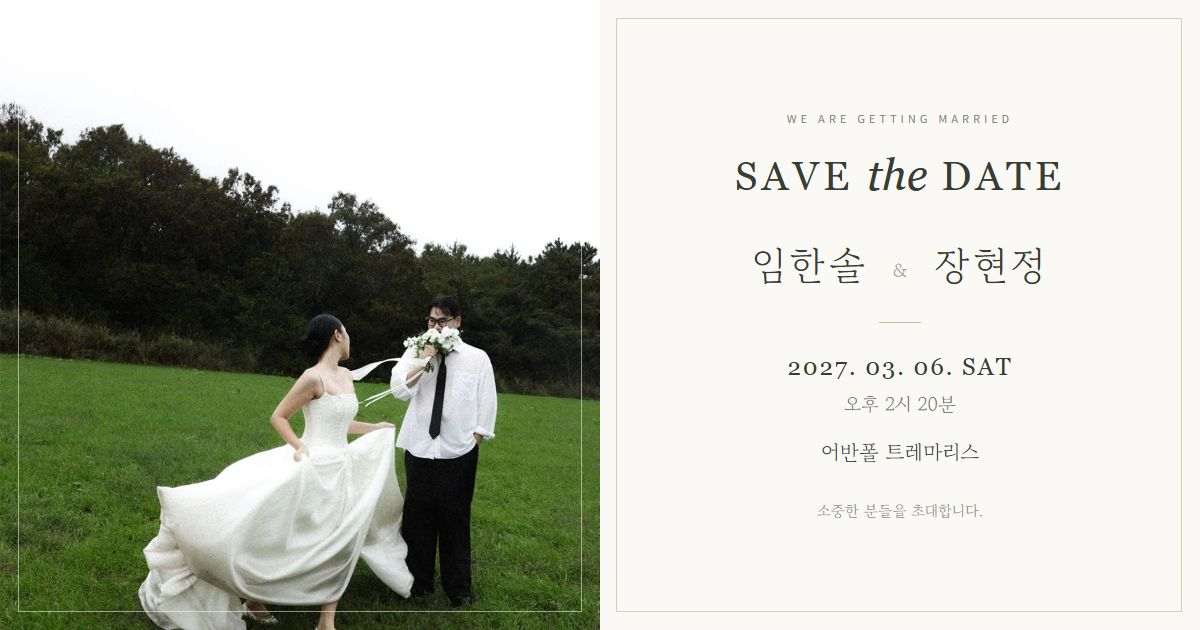
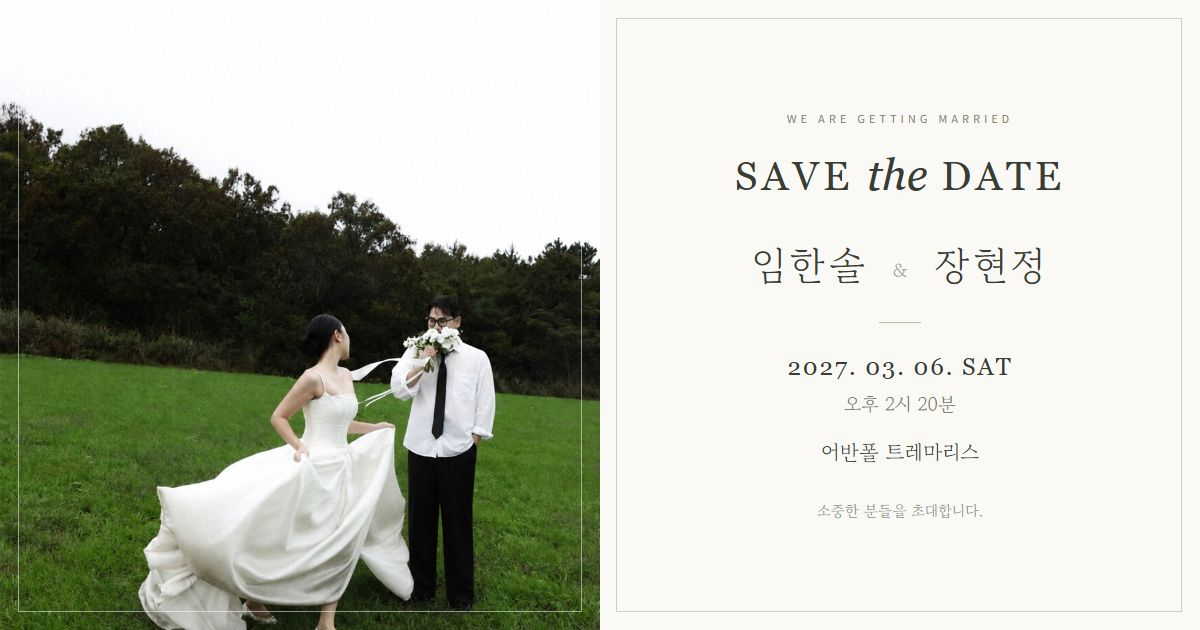
fix: 어반폴 단일 장소 지도와 최신 대표 사진 반영
- 여러 장소가 표시되던 Google 지도 검색 결과를 어반폴 단일 장소의 공식 퍼가기 지도로 교체
- 어반폴 공식 홈페이지에서 제공하는 네이버·카카오 상세 장소 링크를 지도 앱 버튼에 연결
- 지도 버튼을 다시 검색 주소로 덮어쓰던 JavaScript 제거
- 최신 images/main.jpg를 첫 화면과 갤러리 첫 사진으로 적용
- 큰 사진, 작은 미리보기, 확대 모달의 사진 순서를 동일하게 정리
- 대표 사진의 실제 크기 980×1605를 HTML에 반영
- 최신 main.jpg를 사용해 1200×630 공유 썸네일 재생성
- 대표 사진과 공유 썸네일 URL에 파일 내용 기준 버전 값을 추가해 이전 이미지 캐시 갱신
- Open Graph와 Twitter Card 썸네일 주소, 썸네일 원본 HTML, README 갱신

검증:
- 브라우저에서 지도에 어반폴 한 곳의 핀이 표시되는 것 확인
- 공식 네이버·카카오 상세 장소 링크와 어반폴 주소 일치 확인
- 첫 화면·갤러리 대표·첫 번째 미리보기·확대 모달이 최신 main.jpg를 사용하는 것 확인
- 다음 사진 이동 시 기존 두 번째 사진으로 전환되고 2/2로 표시되는 것 확인
- 재생성한 썸네일의 사진과 이름·예식 일시·장소 배치를 이미지로 확인
- JavaScript 문법 검사 및 git diff --check 통과

공개 사이트 반영에는 Push origin 필요

diff --git a/index.html b/index.html
@@ -11,8 +11,8 @@
   <meta property="og:url" content="https://ihs61855.github.io/wedding-invitation/">
   <meta property="og:locale" content="ko_KR">
   <meta property="og:site_name" content="한솔 · 현정의 결혼식">
-  <meta property="og:image" content="https://ihs61855.github.io/wedding-invitation/images/share-thumbnail.jpg">
-  <meta property="og:image:secure_url" content="https://ihs61855.github.io/wedding-invitation/images/share-thumbnail.jpg">
+  <meta property="og:image" content="https://ihs61855.github.io/wedding-invitation/images/share-thumbnail.jpg?v=2b3f9912633d">
+  <meta property="og:image:secure_url" content="https://ihs61855.github.io/wedding-invitation/images/share-thumbnail.jpg?v=2b3f9912633d">
   <meta property="og:image:type" content="image/jpeg">
   <meta property="og:image:width" content="1200">
   <meta property="og:image:height" content="630">
@@ -20,7 +20,7 @@
   <meta name="twitter:card" content="summary_large_image">
   <meta name="twitter:title" content="임한솔 · 장현정, 우리 결혼합니다">
   <meta name="twitter:description" content="2027. 03. 06. SAT 14:20 · 어반폴 트레마리스">
-  <meta name="twitter:image" content="https://ihs61855.github.io/wedding-invitation/images/share-thumbnail.jpg">
+  <meta name="twitter:image" content="https://ihs61855.github.io/wedding-invitation/images/share-thumbnail.jpg?v=2b3f9912633d">
   <link rel="canonical" href="https://ihs61855.github.io/wedding-invitation/">
   <title>임한솔 · 장현정, 우리 결혼합니다</title>
   <link rel="icon" href="./favicon.svg" type="image/svg+xml">
@@ -34,7 +34,7 @@
   <main class="invitation">
     <header class="cover" aria-label="임한솔과 장현정의 결혼식">
       <div class="cover-picture">
-        <img class="cover-image" src="./images/main.jpg" width="1206" height="1976" alt="푸른 잔디밭에서 서로를 바라보는 두 사람" fetchpriority="high">
+        <img class="cover-image" src="./images/main.jpg?v=a7976f656582" width="980" height="1605" alt="푸른 잔디밭에서 서로를 바라보는 두 사람" fetchpriority="high">
         <div class="cover-heading">
           <p class="eyebrow">WE ARE GETTING MARRIED</p>
           <h1>SAVE <em>the</em> DATE</h1>
@@ -68,16 +68,16 @@
     </section>
     <section class="section gallery-section" aria-labelledby="gallery-title">
       <div class="section-heading"><p class="eyebrow">OUR MOMENTS</p><h2 id="gallery-title">우리가 함께한 모든 순간</h2><p class="section-description">평범한 날도, 너와 함께라면 특별해.</p></div>
-      <button type="button" class="gallery-main" data-photo="0" aria-label="첫 번째 사진 크게 보기"><img id="gallery-feature" src="./images/gallery-01.jpg" width="1206" height="1940" alt="초록빛 들판에서 함께 웃는 두 사람" loading="lazy"><span class="photo-caption">OUR LITTLE FOREVER <span>↗</span></span></button>
-      <div class="gallery-bottom"><p><span id="gallery-number">01</span><span class="gallery-divider"></span>02</p><div class="gallery-thumbs"><button type="button" data-select-photo="0" class="selected" aria-label="첫 번째 사진 선택" aria-pressed="true"><img src="./images/gallery-01.jpg" alt="" loading="lazy"></button><button type="button" data-select-photo="1" aria-label="두 번째 사진 선택" aria-pressed="false"><img src="./images/main.jpg" alt="" loading="lazy"></button></div></div>
+      <button type="button" class="gallery-main" data-photo="0" aria-label="첫 번째 사진 크게 보기"><img id="gallery-feature" src="./images/main.jpg?v=a7976f656582" width="980" height="1605" alt="푸른 잔디밭에서 서로를 바라보는 두 사람" loading="lazy"><span class="photo-caption">OUR LITTLE FOREVER <span>↗</span></span></button>
+      <div class="gallery-bottom"><p><span id="gallery-number">01</span><span class="gallery-divider"></span>02</p><div class="gallery-thumbs"><button type="button" data-select-photo="0" class="selected" aria-label="첫 번째 사진 선택" aria-pressed="true"><img src="./images/main.jpg?v=a7976f656582" alt="" loading="lazy"></button><button type="button" data-select-photo="1" aria-label="두 번째 사진 선택" aria-pressed="false"><img src="./images/gallery-01.jpg" alt="" loading="lazy"></button></div></div>
       <p class="small-note">사진을 누르면 크게 보실 수 있습니다.</p>
     </section>
     <section class="section location-section" aria-labelledby="location-title">
       <div class="section-heading"><p class="eyebrow">LOCATION</p><h2 id="location-title">오시는 길</h2></div>
       <h3 class="venue-name">어반폴 트레마리스</h3><p class="venue-address">대구광역시 북구 워터폴리스로 5길 3<br><span>지번 : 대구광역시 북구 검단동 1922</span></p>
       <button type="button" class="text-button" id="copy-address">주소 복사 <span aria-hidden="true">⧉</span></button>
-      <div class="map-wrap"><iframe title="어반폴 트레마리스 위치 지도" src="https://maps.google.com/maps?q=%EC%96%B4%EB%B0%98%ED%8F%B4%20%ED%8A%B8%EB%A0%88%EB%A7%88%EB%A6%AC%EC%8A%A4%20%EB%8C%80%EA%B5%AC&output=embed&hl=ko" loading="lazy" referrerpolicy="no-referrer-when-downgrade" allowfullscreen></iframe></div>
-      <nav class="map-links" aria-label="지도 앱으로 보기"><a id="naver-map" target="_blank" rel="noopener noreferrer"><span class="map-icon naver">N</span>네이버 지도 <span aria-hidden="true">↗</span></a><a id="kakao-map" target="_blank" rel="noopener noreferrer"><span class="map-icon kakao">●</span>카카오맵 <span aria-hidden="true">↗</span></a></nav>
+      <div class="map-wrap"><iframe title="어반폴 트레마리스 위치 지도" src="https://www.google.com/maps/embed?pb=!1m5!3m3!1m2!1s0x3565e144dd065895%3A0x3c9c27bcca75448d!2z7Ja067CY7Y-0!5e0!3m2!1sko!2skr!4v1793463680996!5m2!1sko!2skr" loading="lazy" referrerpolicy="strict-origin-when-cross-origin" allowfullscreen></iframe></div>
+      <nav class="map-links" aria-label="지도 앱으로 보기"><a id="naver-map" href="https://naver.me/58jAJ3zJ" target="_blank" rel="noopener noreferrer"><span class="map-icon naver">N</span>네이버 지도 <span aria-hidden="true">↗</span></a><a id="kakao-map" href="https://place.map.kakao.com/2123646296" target="_blank" rel="noopener noreferrer"><span class="map-icon kakao">●</span>카카오맵 <span aria-hidden="true">↗</span></a></nav>
       <div class="travel-info">
         <p class="travel-label">교통 안내</p>
         <p class="transport-hint">이용하시는 교통편을 눌러 확인해 주세요.</p>

diff --git a/share-preview.html b/share-preview.html
@@ -20,5 +20,5 @@
     .date{font:24px Georgia;letter-spacing:2px}.time{font-size:19px;margin:10px 0 20px;color:#71786a}.venue{font-size:21px}.closing{font-size:15px;color:#8b917e;margin-top:33px}
   </style>
 </head>
-<body><main><div class="photo"><img src="./images/main.jpg" alt="푸른 들판의 두 사람"></div><div class="text"><p class="label">WE ARE GETTING MARRIED</p><h1>SAVE <em>the</em> DATE</h1><p class="names">임한솔 <span>＆</span> 장현정</p><div class="rule"></div><p class="date">2027. 03. 06. SAT</p><p class="time">오후 2시 20분</p><p class="venue">어반폴 트레마리스</p><p class="closing">소중한 분들을 초대합니다.</p></div></main></body>
+<body><main><div class="photo"><img src="./images/main.jpg?v=a7976f656582" alt="푸른 들판의 두 사람"></div><div class="text"><p class="label">WE ARE GETTING MARRIED</p><h1>SAVE <em>the</em> DATE</h1><p class="names">임한솔 <span>＆</span> 장현정</p><div class="rule"></div><p class="date">2027. 03. 06. SAT</p><p class="time">오후 2시 20분</p><p class="venue">어반폴 트레마리스</p><p class="closing">소중한 분들을 초대합니다.</p></div></main></body>
 </html>

diff --git a/script.js b/script.js
@@ -35,9 +35,6 @@
       } catch (error) { if (error.name !== "AbortError") copy(shareUrl, "청첩장 링크를 복사했어요."); }
     } else await copy(shareUrl, "청첩장 링크를 복사했어요.");
   });
-  const mapQuery = encodeURIComponent(`${config.venue} ${config.address}`);
-  $("naver-map").href = `https://map.naver.com/p/search/${mapQuery}`;
-  $("kakao-map").href = `https://map.kakao.com/link/search/${mapQuery}`;
 
   const accounts = config.accounts || {};
   for (const side of ["groom", "bride"]) {
@@ -110,8 +107,8 @@
   });
 
   const photos = [
-    { src: "./images/gallery-01.jpg", alt: "초록빛 들판에서 함께 웃는 두 사람" },
-    { src: "./images/main.jpg", alt: "푸른 잔디밭에서 서로를 바라보는 두 사람" }
+    { src: "./images/main.jpg?v=a7976f656582", alt: "푸른 잔디밭에서 서로를 바라보는 두 사람" },
+    { src: "./images/gallery-01.jpg", alt: "초록빛 들판에서 함께 웃는 두 사람" }
   ];
   let photoIndex = 0;
   const photoDialog = $("photo-dialog");

diff --git a/README.md b/README.md
@@ -14,6 +14,7 @@ HTML/CSS/JavaScript로 만든 GitHub Pages용 청첩장입니다. 빌드나 Node
 - 초대글, 신랑·신부 이름, 한국 시간 기준 달력과 실시간 카운트다운
 - ICS 일정 저장, 사진 확대·키보드 이동·좌우 스와이프
 - 예식장 지도, 네이버 지도·카카오맵 연결, 주소 복사
+- 지도는 어반폴 공식 홈페이지에서 연결한 단일 장소를 중심으로 표시하며, 지도 앱 버튼도 검색 결과 대신 어반폴 상세 장소로 연결
 - 포항·경부·중앙/중부내륙고속도로지선 경로와 버스 정류장·300/320번 노선을 개별 접이식 안내로 제공
 - 대절버스 탑승 위치: 삼성전자 정문 주차장, 루체스타비즈 앞
 - 신랑 측·신부 측 접이식 계좌 안내와 계좌번호 복사 (현재 양가 각 3개의 예시 데이터)
@@ -91,11 +92,12 @@ Open Graph와 Twitter Card 메타데이터에 절대 주소로 연결했으며, 
 
 | 파일 | 용도 |
 |---|---|
-| `images/main.jpg` | 첫 화면 대표 사진, 갤러리 두 번째 사진 |
-| `images/gallery-01.jpg` | 갤러리 첫 번째 사진, 하단 마무리 사진 |
+| `images/main.jpg` | 첫 화면 대표 사진, 갤러리 첫 번째 사진 |
+| `images/gallery-01.jpg` | 갤러리 두 번째 사진, 하단 마무리 사진 |
 | `images/share-thumbnail.jpg` | 링크 공유 미리보기 썸네일 (1200×630) |
 
 사진을 교체할 때는 위 파일명을 유지하면 됩니다. 이름을 바꾸려면 `index.html`, `script.js`, `share-preview.html`과 공유 이미지 경로도 함께 수정합니다.
+대표 사진을 교체하면 공유 썸네일도 다시 생성하고 이미지 주소의 `v` 값을 갱신합니다. 현재 첫 화면과 갤러리 첫 사진, 썸네일 원본에 같은 최신 `main.jpg`를 사용합니다.
 글꼴은 Google Fonts에서 불러오며 연결되지 않으면 시스템 바탕체를 사용합니다.
 
 ## 검증
